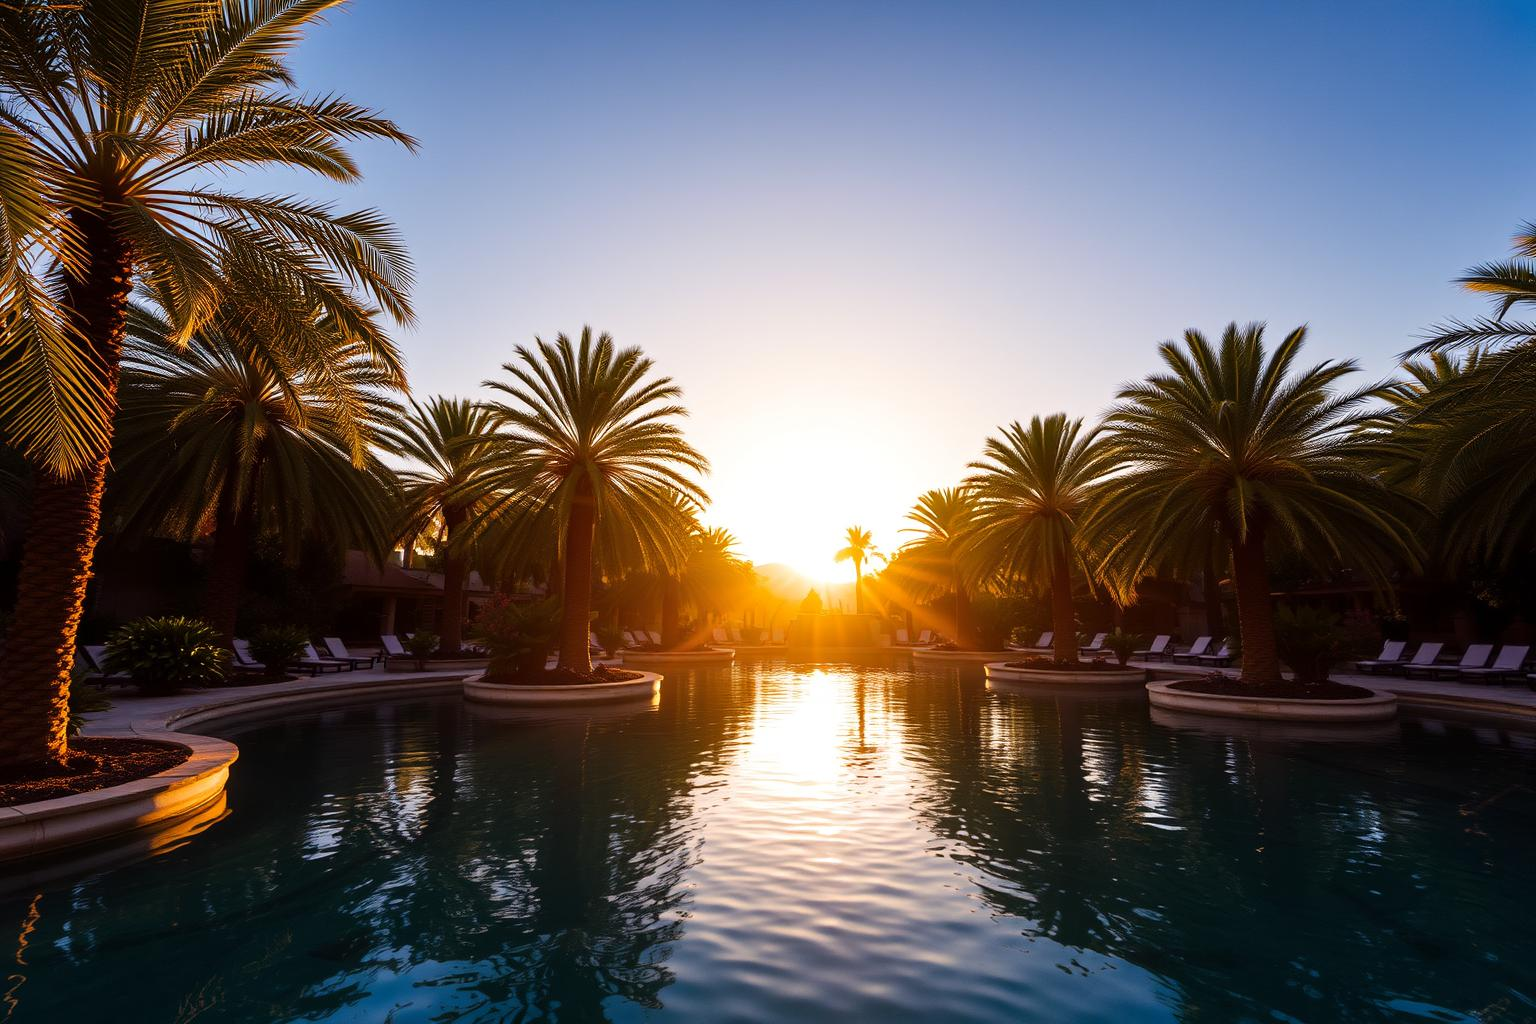
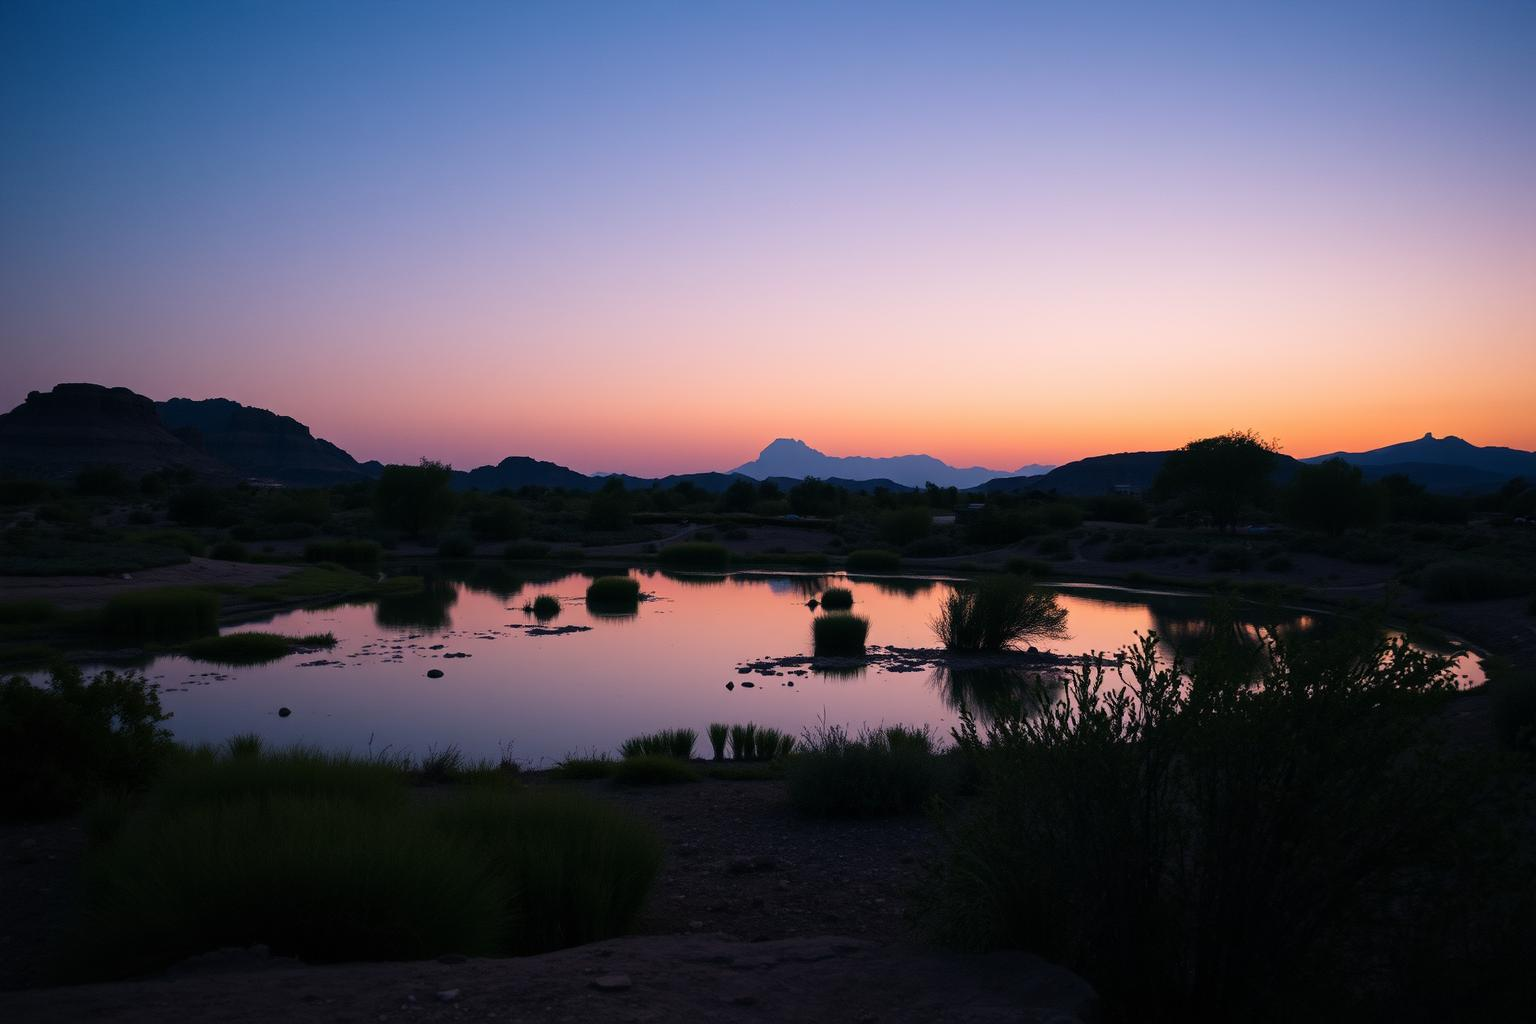
Update preset text colors and adjust version label font size in CaravanEditor

diff --git a/plugin/caravan/source/ui/editor/CaravanEditor.cpp b/plugin/caravan/source/ui/editor/CaravanEditor.cpp
@@ -23,14 +23,14 @@ namespace Caravan
         presetBackgroundImages.push_back(juce::ImageCache::getFromMemory(BinaryData::nomad_png, BinaryData::nomad_pngSize));
 
         // Define preset text colors
-        presetTextColors.push_back(juce::Colours::white);      // Oasis
-        presetTextColors.push_back(juce::Colours::black);      // Sandstorm
-        presetTextColors.push_back(juce::Colours::darkkhaki);  // Mirage
-        presetTextColors.push_back(juce::Colours::black);      // Dunes
-        presetTextColors.push_back(juce::Colours::dodgerblue); // Sahara
-        presetTextColors.push_back(juce::Colours::gainsboro);  // Sunset
-        presetTextColors.push_back(juce::Colours::darkred);    // Pristine
-        presetTextColors.push_back(juce::Colours::blue);       // Nomad
+        presetTextColors.push_back(juce::Colours::white);         // Oasis
+        presetTextColors.push_back(juce::Colours::black);         // Sandstorm
+        presetTextColors.push_back(juce::Colours::darkred);       // Mirage
+        presetTextColors.push_back(juce::Colours::red);           // Dunes
+        presetTextColors.push_back(juce::Colours::darkslateblue); // Sahara
+        presetTextColors.push_back(juce::Colours::darkturquoise); // Sunset
+        presetTextColors.push_back(juce::Colours::black);         // Pristine
+        presetTextColors.push_back(juce::Colours::blue);          // Nomad
 
         configureSlider(dustDriveSlider, true);
         dustDriveSlider.setName("Dust Drive");
@@ -69,12 +69,12 @@ namespace Caravan
         addAndMakeVisible(titleLabel);
 
         versionLabel.setText("alpha v1.0.1", juce::dontSendNotification);
-        versionLabel.setFont(fontManager.getFont(35.0f));
+        versionLabel.setFont(fontManager.getFont(33.0f));
         versionLabel.setJustificationType(juce::Justification::bottomLeft);
         versionLabel.setColour(juce::Label::textColourId, juce::Colours::black);
         addAndMakeVisible(versionLabel);
 
-        tuneModeLabel.setFont(fontManager.getFont(40.0f).boldened());
+        tuneModeLabel.setFont(fontManager.getFont(45.0f));
         tuneModeLabel.setJustificationType(juce::Justification::centred);
 
         sliderAttachments.push_back(std::make_unique<juce::AudioProcessorValueTreeState::SliderAttachment>(
